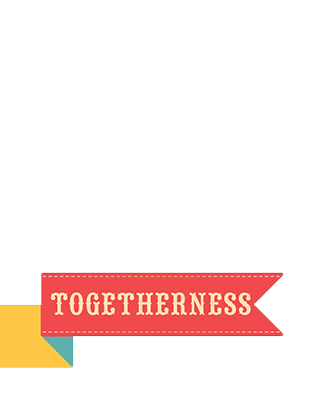
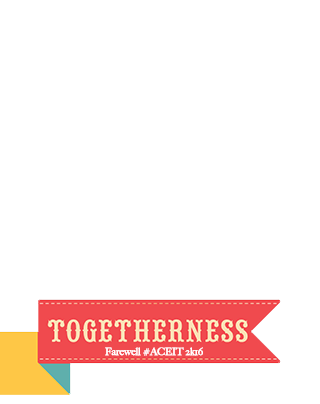
profile overlay modified

Changed region(s): [[0.0, 0.6535, 0.875, 0.9802]]

diff --git a/app/index.html b/app/index.html
@@ -7,6 +7,7 @@
     <title>farewell</title>
 
     <link rel="apple-touch-icon" href="apple-touch-icon.png">
+    <link rel="stylesheet" href="/bower_components/font-awesome/css/font-awesome.min.css" >
     <link href='https://fonts.googleapis.com/css?family=Dancing+Script' rel='stylesheet' type='text/css'>
     <!-- Place favicon.ico in the root directory -->
 
@@ -31,7 +32,7 @@
     <div class="container">
       <!-- <div class="header">
         <ul class="nav nav-pills pull-right">
-          <li><a><fb:login-button scope="public_profile,email" onlogin="checkLoginState();">  </fb:login-button></a></li>
+          <li><a id="loginbutton"><fb:login-button scope="public_profile,email" onlogin="checkLoginState();">  </fb:login-button></a></li>
         </ul>
         <h3 class="text-muted">farewell</h3>
       </div> -->
@@ -50,17 +51,28 @@
             </div>
           </div>
           <div class="row">
-            <!-- <div class="col-xs-6 col-md-3">
-              <a href="#" class="thumbnail">
-                <img id="profile_picture" src="ayush" alt="Facebook profile picture">
-              </a>
-            </div> -->
-            <div class="col-md-12">
-              <canvas  class="thumbnail" id="leCanvas" width="200" height="252" style="width:200; margin:auto;"></canvas>
+            <div class="col-md-12 text-center" id="loginbutton">
+              <br/>
+              <button type="button" onclick="fblogin();" class="btn btn-danger btn-lg">
+               <span>Connet using</span>
+               <i class="fa fa-facebook-official" aria-hidden="true"></i>
+             </button>
+             <!-- <a id="loginbutton"><fb:login-button scope="public_profile,email,user_photos,publish_actions" onlogin="checkLoginState();"></fb:login-button></a> -->
             </div>
-            <div class="col-md-12 text-center">
+            <br/>
+            <div class="col-md-12" id="profilepic" style="display:none;">
+              <canvas  class="thumbnail" id="leCanvas" width="253" height="320" style="width:253; margin:auto;"></canvas>
+            </div>
+            <div class="col-md-12 text-center" id="downloadbutton" style="display:none;">
               <br>
-              <button class="btn btn-danger">Get your profile picture</button>
+              <a class="btn btn-danger" onclick="downloadCanvas(this,'leCanvas','farewell.png')">Get your profile picture</a>
+            </div>
+
+            <div class="col-md-12">
+              <br/>
+              <p style="font-size:20px; text-align:center; color:#FFF; font-family: 'Dancing Script', cursive;">
+                “For me, the times I always regret are missed opportunities to say farewell to good people, to wish them long life and say to them in all sincerity, "You build and do not destroy; you sow goodwill and reap it; smiles bloom in the wake of your passing, and I will keep your kindness in trust and share it as occasion arises, so that your life will be a quenching draught of calm in a land of drought and stress." Too often I never get to say that when it should be said. Instead, I leave them with the equivalent of a "Later, dude!" only to discover there would be no later for us.”
+              </p>
             </div>
         </div>
 
@@ -72,7 +84,7 @@
 
 
       <div class="footer">
-        <p>Made with <span style="color:red;">♥</span> by Ayush </p>
+        <p style="color:#fff;" class="text-center">Made with <span style="color:red;">♥</span> by Ayush </p>
       </div>
     </div>
 

diff --git a/app/scripts/main.js b/app/scripts/main.js
@@ -1,18 +1,10 @@
 
-
-/*
-
-*/
-
-var imgData;
-//
-// function updateProfilePicture(){
-//   console.log("asdfs")
-//
-// }
+function downloadCanvas(link, canvasId, filename) {
+    link.href = document.getElementById(canvasId).toDataURL();
+    link.download = filename;
+}
 
 function imageOps(imgSrc) {
-  // var dfd = $.Deferred();
 
   var canvas = document.getElementById("leCanvas");
   var context = canvas.getContext("2d");
@@ -32,13 +24,9 @@ function imageOps(imgSrc) {
     together.onload = function() {
       // context.globalCompositeOperation = "soft-light";
       context.drawImage(together, 0, 0, canvas.width, canvas.height);
-      imgData = canvas.toDataURL("image/png").replace("image/png", "image/octet-stream")
 
     };
   };
-  // if(imgData){
-  //   dfd.resolve( return imgData )
-  // }
 }
 
 
@@ -55,13 +43,13 @@ function imageOps(imgSrc) {
       testAPI(response);
     } else if (response.status === 'not_authorized') {
       // The person is logged into Facebook, but not your app.
-      document.getElementById('status').innerHTML = 'Please log ' +
-        'into this app.';
+      // document.getElementById('status').innerHTML = 'Please log ' +
+      //   'into this app.';
     } else {
       // The person is not logged into Facebook, so we're not sure if
       // they are logged into this app or not.
-      document.getElementById('status').innerHTML = 'Please log ' +
-        'into Facebook.';
+      // document.getElementById('status').innerHTML = 'Please log ' +
+      //   'into Facebook.';
     }
   }
 
@@ -74,12 +62,21 @@ function imageOps(imgSrc) {
     });
   }
 
+  function fblogin(){
+    FB.login(function(response){
+      if (response.status === 'connected') {
+        $('#loginbutton').css('display','none');
+        testAPI(response);
+      }
+    });
+  }
+
   window.fbAsyncInit = function() {
   FB.init({
     appId      : '807805989353037',
     cookie     : true,  // enable cookies to allow the server to access
                         // the session
-    xfbml      : true,  // parse social plugins on this page
+    xfbml      : false,  // parse social plugins on this page
     version    : 'v2.5' // use graph api version 2.5
   });
 
@@ -125,26 +122,10 @@ function imageOps(imgSrc) {
     });
 
     //getting facebook profile picture
-    FB.api('me/picture?width=200', function(response) {
+    FB.api('me/picture?width=250', function(response) {
       console.log(response)
-
+      $('#downloadbutton,#profilepic').css('display','block');
       imageOps(response.data.url);
 
     });
-
-    FB.api(
-        "me/1017716554960200/photos",
-        "POST",
-        {
-            "source": imgData;
-        },
-        function (response) {
-          if (response && !response.error) {
-            console.log(response);
-          }
-          console.log(response);
-        }
-    );
-
-
   }
